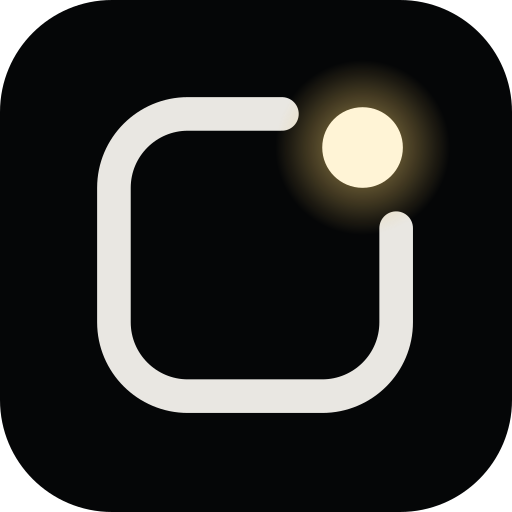
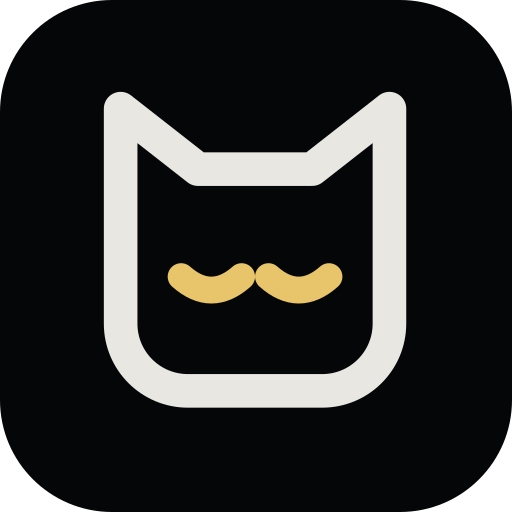
feat: SALEM becomes a familiar
- New mark K2: the window is a cat's head, its eyes the light, resting in a
  slow blink; the header logo opens its eyes on hover
- Intro: eyes open in the dark, slow-blink, the outline draws around them and
  settles into the mark
- Favicon, app icon, OG image and brand board updated
- About explains the name: a familiar, a companion that lives with you and helps

diff --git a/design/logo/cat.html b/design/logo/cat.html
@@ -1,0 +1,94 @@
+<!doctype html>
+<html lang="en">
+<head>
+<meta charset="utf-8" />
+<title>SALEM cat exploration</title>
+<style>
+  @font-face { font-family:S; src:url('../../node_modules/@fontsource-variable/schibsted-grotesk/files/schibsted-grotesk-latin-wght-normal.woff2') format('woff2'); font-weight:400 900; }
+  :root { --night:#050607; --coal:#101214; --line:#2a2e33; --text:#e9e7e2; --muted:#8e9196; --lamp:#e8c46a; --paper:#f3f1ec; --ink:#16181b; }
+  body { margin:0; width:1600px; background:var(--night); color:var(--text); font-family:S,sans-serif; padding:56px; box-sizing:border-box; }
+  h1 { font-size:28px; font-weight:600; letter-spacing:-.02em; margin:0 0 6px; }
+  .sub { color:var(--muted); margin:0 0 40px; }
+  .opt { display:grid; grid-template-columns:330px 1fr 250px 230px; border:1px solid var(--line); border-radius:14px; overflow:hidden; margin-bottom:24px; }
+  .opt > div { padding:28px; display:grid; align-content:center; gap:14px; }
+  .opt > div + div { border-left:1px solid var(--line); }
+  .name { font-size:21px; font-weight:600; }
+  .idea { color:var(--muted); font-size:14.5px; line-height:1.5; }
+  .big { background:var(--coal); place-items:center; }
+  .lock { display:flex; align-items:center; gap:16px; }
+  .word { font-weight:500; letter-spacing:.42em; margin-right:-.42em; font-size:28px; }
+  .row { display:flex; align-items:end; gap:16px; }
+  .row span { display:block; text-align:center; color:var(--muted); font-size:12px; margin-top:6px; }
+  .light { background:var(--paper); color:var(--ink); place-items:center; }
+  .light .word { font-size:19px; }
+  .states { display:flex; gap:18px; }
+  .states div { text-align:center; color:var(--muted); font-size:12px; }
+</style>
+</head>
+<body>
+<svg width="0" height="0" style="position:absolute">
+  <defs>
+    <radialGradient id="glow" cx="50%" cy="50%" r="50%">
+      <stop offset="0" stop-color="#fff4d6" stop-opacity=".95"/>
+      <stop offset=".35" stop-color="#e8c46a" stop-opacity=".45"/>
+      <stop offset="1" stop-color="#e8c46a" stop-opacity="0"/>
+    </radialGradient>
+  </defs>
+
+  <!-- K1: the open window grows ears. The light stays outside. -->
+  <symbol id="k1" viewBox="0 0 64 64">
+    <path d="M36 15 H 30.5 L 22.5 6 L 18.5 15 H 21 A 10 10 0 0 0 11 25 V 43 A 10 10 0 0 0 21 53 H 43 A 10 10 0 0 0 53 43 V 30"
+          fill="none" stroke="currentColor" stroke-width="4.4" stroke-linecap="round" stroke-linejoin="round"/>
+    <path d="M18.5 15 L 13 8 L 11.5 20" fill="none" stroke="currentColor" stroke-width="4.4" stroke-linecap="round" stroke-linejoin="round"/>
+    <circle cx="48" cy="19" r="13" fill="url(#glow)"/>
+    <circle cx="48" cy="19" r="5.6" fill="#fff4d6"/>
+  </symbol>
+
+  <!-- K2: Familiar. The window is the cat's head; its eyes are the light, in a slow blink (trust). -->
+  <symbol id="k2" viewBox="0 0 64 64">
+    <path d="M12 44 V 12 L 23.5 21 H 40.5 L 52 12 V 44 A 10 10 0 0 1 42 54 H 22 A 10 10 0 0 1 12 44 Z"
+          fill="none" stroke="currentColor" stroke-width="4.4" stroke-linejoin="round"/>
+    <path d="M21 37 Q 25.5 41 30 37 M34 37 Q 38.5 41 43 37" fill="none" stroke="#e8c46a" stroke-width="3.4" stroke-linecap="round"/>
+  </symbol>
+  <symbol id="k2-open" viewBox="0 0 64 64">
+    <path d="M12 44 V 12 L 23.5 21 H 40.5 L 52 12 V 44 A 10 10 0 0 1 42 54 H 22 A 10 10 0 0 1 12 44 Z"
+          fill="none" stroke="currentColor" stroke-width="4.4" stroke-linejoin="round"/>
+    <circle cx="25.5" cy="36.5" r="9" fill="url(#glow)"/><circle cx="38.5" cy="36.5" r="9" fill="url(#glow)"/>
+    <path d="M20.5 36.5 Q 25.5 30.5 30.5 36.5 Q 25.5 42.5 20.5 36.5 Z M33.5 36.5 Q 38.5 30.5 43.5 36.5 Q 38.5 42.5 33.5 36.5 Z" fill="#e8c46a"/>
+    <ellipse cx="25.5" cy="36.5" rx="1.1" ry="4" fill="#050607"/><ellipse cx="38.5" cy="36.5" rx="1.1" ry="4" fill="#050607"/>
+  </symbol>
+
+  <!-- K3: Eyes in the dark. Only the light: two cat eyes. -->
+  <symbol id="k3" viewBox="0 0 64 64">
+    <circle cx="21" cy="32" r="14" fill="url(#glow)"/><circle cx="43" cy="32" r="14" fill="url(#glow)"/>
+    <path d="M10 33 Q 19 21 30 31 Q 21 43 10 33 Z" fill="#e8c46a"/>
+    <path d="M54 33 Q 45 21 34 31 Q 43 43 54 33 Z" fill="#e8c46a"/>
+    <ellipse cx="20.5" cy="32" rx="1.6" ry="6.5" fill="#050607"/><ellipse cx="43.5" cy="32" rx="1.6" ry="6.5" fill="#050607"/>
+  </symbol>
+</svg>
+
+<h1>SALEM — the cat, explored</h1>
+<p class="sub">Three ways to bring the cat into the identity without turning it into a mascot.</p>
+
+<script>
+  const opts = [
+    ['k1', 'K1 — Ears on the window', 'The current mark, evolved: the open window grows two ears; the light still sits outside it. Keeps everything we have, adds the cat as a silhouette you notice the second time.'],
+    ['k2', 'K2 — Familiar', 'The window becomes the cat\'s head and the light becomes its eyes. Idle, it slow-blinks: in cats that means trust. When SALEM listens, the eyes open. A familiar: the companion that helps, in folklore.'],
+    ['k3', 'K3 — Eyes in the dark', 'Only the light: two cat eyes on black. Striking and memorable, but eyes on an AI read as surveillance, which works against a product built on user control.'],
+  ];
+  for (const [id, name, idea] of opts) {
+    const u = (s, c = 'var(--text)', sym = id) => `<svg width="${s}" height="${s}" style="color:${c}"><use href="#${sym}"/></svg>`;
+    const extra = id === 'k2'
+      ? `<div class="states"><div>${u(64)}<br>Idle: slow blink</div><div>${u(64, 'var(--text)', 'k2-open')}<br>Listening</div></div>`
+      : `<div class="row">${[16, 24, 32, 48].map((s) => `<div>${u(s)}<span>${s}</span></div>`).join('')}</div>`;
+    document.body.insertAdjacentHTML('beforeend', `
+      <section class="opt">
+        <div><div class="name">${name}</div><div class="idea">${idea}</div></div>
+        <div class="big">${u(190)}<div class="lock" style="margin-top:22px">${u(44)}<span class="word">SALEM</span></div></div>
+        <div>${extra}${id === 'k2' ? `<div class="row">${[16, 24, 32].map((s) => `<div>${u(s)}<span>${s}</span></div>`).join('')}</div>` : ''}</div>
+        <div class="light">${u(92, 'var(--ink)')}<div class="lock">${u(28, 'var(--ink)')}<span class="word">SALEM</span></div></div>
+      </section>`);
+  }
+</script>
+</body>
+</html>

diff --git a/design/logo/brand.html b/design/logo/brand.html
@@ -9,7 +9,7 @@ body{margin:0;width:1600px;background:#050607;color:#e9e7e2;font-family:S,sans-s
 .sw{display:flex;gap:14px}.sw div{width:120px;height:84px;border-radius:10px;border:1px solid #2a2e33;padding:10px;font-size:12px;display:flex;flex-direction:column;justify-content:end}
 h1{margin:0 0 6px;font-size:28px;font-weight:600;letter-spacing:-.02em}p.s{margin:0 0 36px;color:#8e9196}
 </style></head><body>
-<h1>SALEM — mark B, “Beyond the window”</h1><p class="s">A window left open, with the light outside it. AI that lives beyond the chat window.</p>
+<h1>SALEM — mark K2, “Familiar”</h1><p class="s">A familiar: the window is the cat’s head and the light is its eyes, closed in a slow blink, a sign of trust.</p>
 <div class="grid">
  <div class="tile coal"><img src="salem-mark.svg" width="260"><div class="lock"><img src="salem-mark.svg" width="52"><span class="word" style="font-size:38px">SALEM</span></div></div>
  <div class="tile paper"><img src="salem-mark-light.svg" width="150"><div class="lock"><img src="salem-mark-light.svg" width="40"><span class="word" style="font-size:28px">SALEM</span></div></div>

diff --git a/README.md b/README.md
@@ -1,10 +1,12 @@
+<img src="public/salem-mark.svg" width="72" alt="SALEM mark: a cat's head drawn as a window, its eyes closed in a slow blink">
+
 # SALEM
 
 ### One intelligence. Everywhere you are.
 
 SALEM explores a future where personal AI is no longer confined to a chat window.
 
-It is a persistent personal intelligence: it keeps context about the people, projects, devices and services in
+It is a persistent personal intelligence, a familiar for your digital life: it keeps context about the people, projects, devices and services in
 your life, and acts across them. Models, agents and tools are parts SALEM uses. SALEM is what stays.
 
 Website: [getsalem.dev](https://getsalem.dev)
